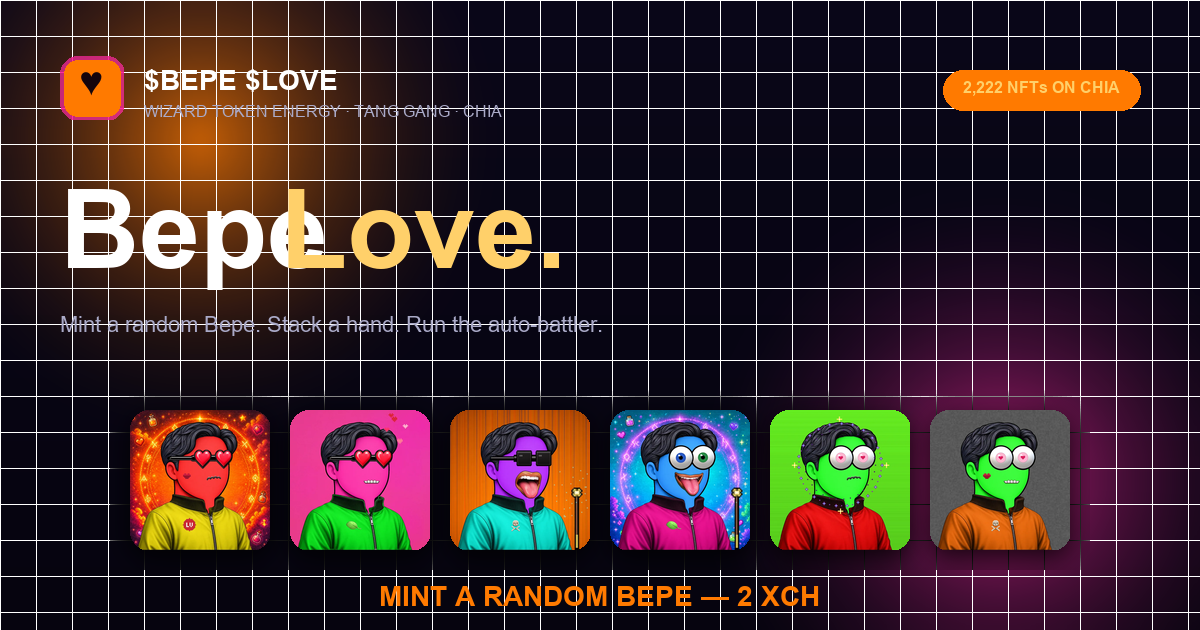
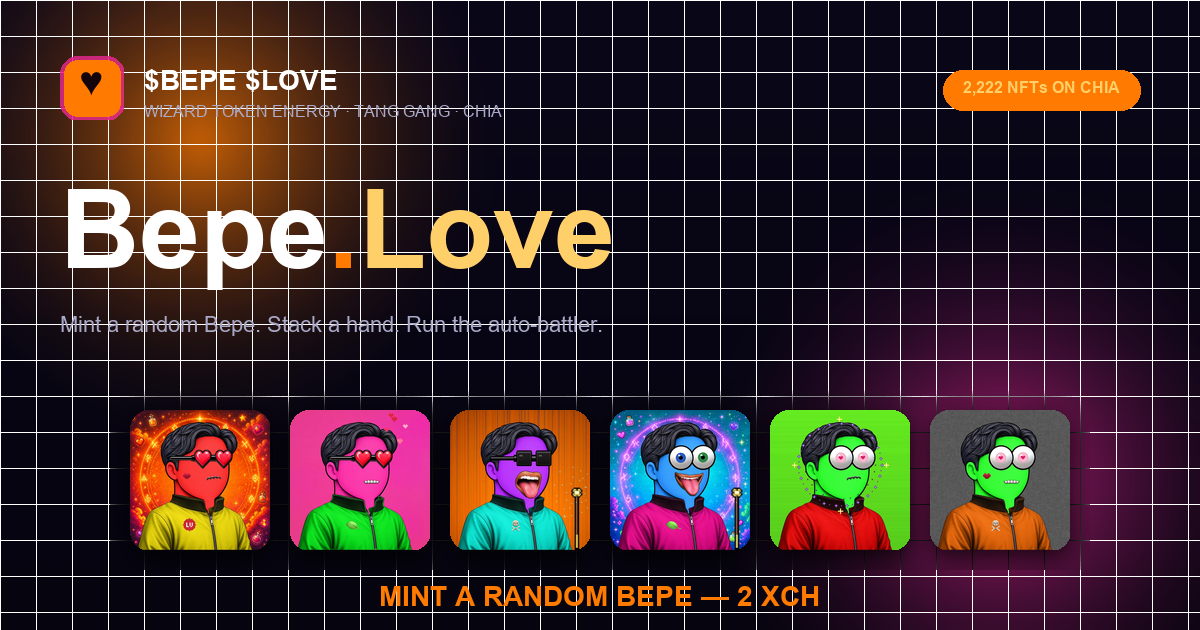
Fix OG image headline: render as Bepe.Love with measured layout
The previous version hard-coded x-coords for "Bepe" at 60 and "Love."
at 280 — but at 110pt bold, "Bepe" extends past 280, so the words
overlapped into a smushed "BepeLove." with the period stranded at
the end.

Reposition with PIL textbbox-driven measurement: render "Bepe" in
white, "." in orange (brand accent / domain-mark), "Love" in gold —
each segment placed flush against the previous, no overlap, and now
reads as the domain-style title the user wanted.

Changed region(s): [[0.2158, 0.3016, 0.5242, 0.4524]]

diff --git a/scripts/build_og_image.py b/scripts/build_og_image.py
@@ -145,10 +145,17 @@ def main() -> None:
     )
     draw.text((W - (tx1 - tx0) - 80, 78), tag_text, fill=GOLD, font=tag_font)
 
-    # Headline — big "Bepe Love"
+    # Headline — domain-style "Bepe.Love" on one line, measured so segments
+    # don't overlap. Bepe in white, the dot in orange as a brand accent,
+    # Love in gold.
     h1_font = load_font(110, bold=True)
-    draw.text((60, 168), "Bepe", fill=WHITE, font=h1_font)
-    draw.text((280, 168), "Love.", fill=GOLD, font=h1_font)
+    parts = [("Bepe", WHITE), (".", ORANGE), ("Love", GOLD)]
+    cursor_x = 60
+    headline_y = 168
+    for text, color in parts:
+        draw.text((cursor_x, headline_y), text, fill=color, font=h1_font)
+        bbox = draw.textbbox((cursor_x, headline_y), text, font=h1_font)
+        cursor_x = bbox[2]  # right edge becomes left edge of next part
 
     # Tagline
     tag2_font = load_font(22, bold=False)
